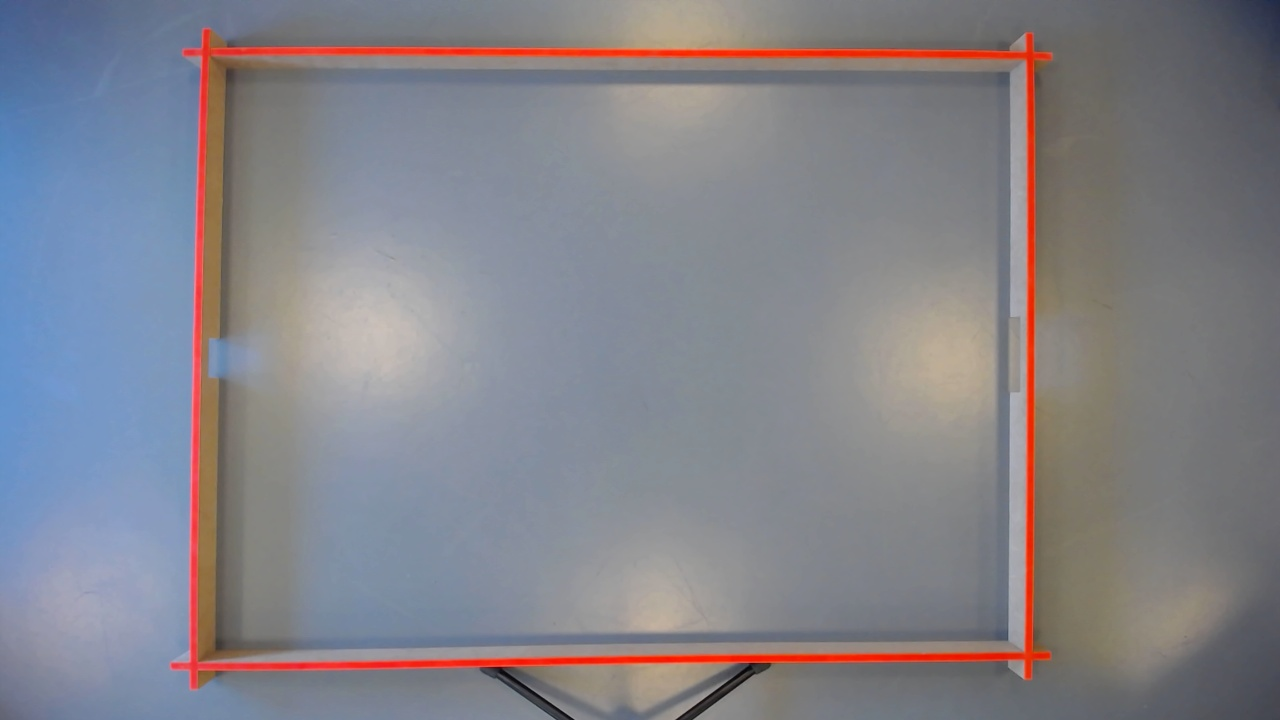
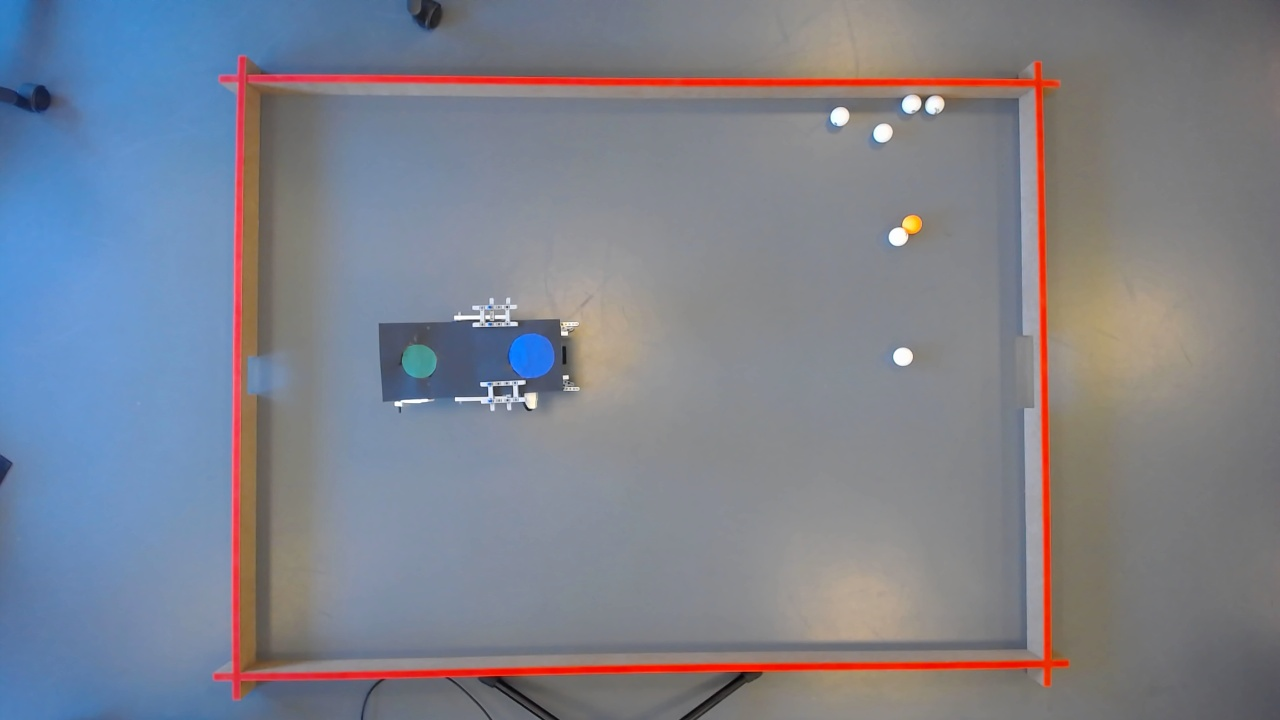
img recog

diff --git a/detectRobotAndBalls.py b/detectRobotAndBalls.py
@@ -13,6 +13,7 @@ def imageRecognitionHD(image):
 
     start = time.time()
 
+
     img_height, img_width, _ = image.shape
 
     # Circle detection
@@ -24,8 +25,8 @@ def imageRecognitionHD(image):
         1,
         20,
         param1=50,
-        param2=13,
-        minRadius=9,
+        param2=12,
+        minRadius=8,
         maxRadius=11
     )
 
@@ -56,11 +57,13 @@ def imageRecognitionHD(image):
 
     if detected_Balls is not None:
         detected_circles = np.uint16(np.around(detected_Balls))
+
         for pt in detected_circles[0, :]:
             a, b, r = pt[0], pt[1], pt[2]
 
+            #8, 194, 252
             if np.logical_and.reduce(
-                    (50 >= image[b, a][0], 160 <= image[b, a][1], 190 >= image[b, a][1], 160 <= image[b, a][2])):
+                    (70 >= image[b, a][0], 100 <= image[b, a][1], 240 >= image[b, a][1], 160 <= image[b, a][2])):
                 print("CENTER OF ORANGE BALL SHOULD BE: " + str(a) + " " + str(b))
                 cv.circle(blank, (a, b), r, (0, 150, 255), -1)
                 balls.append([a, b])
@@ -75,7 +78,6 @@ def imageRecognitionHD(image):
 
     back = []
     front = []
-
     if detected_Front is not None:
         detected_circles = np.uint16(np.around(detected_Front))
         for pt in detected_circles[0, :]:
@@ -87,7 +89,6 @@ def imageRecognitionHD(image):
             green = bgr_pixel[1]
             red = bgr_pixel[2]
 
-            green_threshold = 0
             blue_threshold = 20
             light_blue_threshold = 200
 
@@ -111,8 +112,6 @@ def imageRecognitionHD(image):
             red = bgr_pixel[2]
 
             green_threshold = 0
-            blue_threshold = 0
-            light_blue_threshold = 200
 
             if green > blue + green_threshold and green > red + green_threshold:
                 print("CENTER OF GREEN BALL SHOULD BE: " + str(a) + " " + str(b))

diff --git a/detectField.py b/detectField.py
@@ -82,21 +82,14 @@ def imageRecognitionHD(image):
         x, y, w, h = cv.boundingRect(approx)
         if np.logical_and(h > 80, h < 200):
             cv.drawContours(blank, [approx], -1, (255, 100, 150), 2)
-            corners = cv.goodFeaturesToTrack(img_gray, 12, 0.01, 1, useHarrisDetector=True, k=0.04)
-            corners = np.int0(corners)
-            for i in corners:
-                u, j = i.ravel()
-                if np.logical_and(u < 800, u > 300):
-                    cv.circle(blank, (u, j), 5, (0, 255, 0), -1)
 
             for points in contour:
                 p, t = points[0]
-                obstacle.append(p)
-                obstacle.append(t)
+                obstacle.append([p, t])
 
     end = time.time()
     time_for_transform = end - start
-    print(walls)
+
     cv.imshow('Original', image)
     cv.imshow('Field.py ', blank)
 

diff --git a/VariousTests/imageRecognitionTest.py b/VariousTests/imageRecognitionTest.py
@@ -3,10 +3,9 @@ import cv2 as cv
 import detectRobotAndBalls
 import detectField
 
-image = cv.imread('../Resources/Pictures/kek7.jpg')
+image = cv.imread('../Resources/Pictures/kek8.jpg')
 
-detectField.imageRecognitionHD(image)
-print("Result from test: ")
+detectRobotAndBalls.imageRecognitionHD(image)
 
 # print(balls)
 # print(robot)

diff --git a/imageReader.py b/imageReader.py
@@ -12,7 +12,7 @@ while 1:
         break
     cv.imshow('Read picture', image)
     if cv.waitKey(1) & 0xFF == ord('q'):
-        cv.imwrite('Resources/Pictures/kek7.jpg', image)
+        cv.imwrite('Resources/Pictures/kek8.jpg', image)
         break
 
 videoCapture.release()
